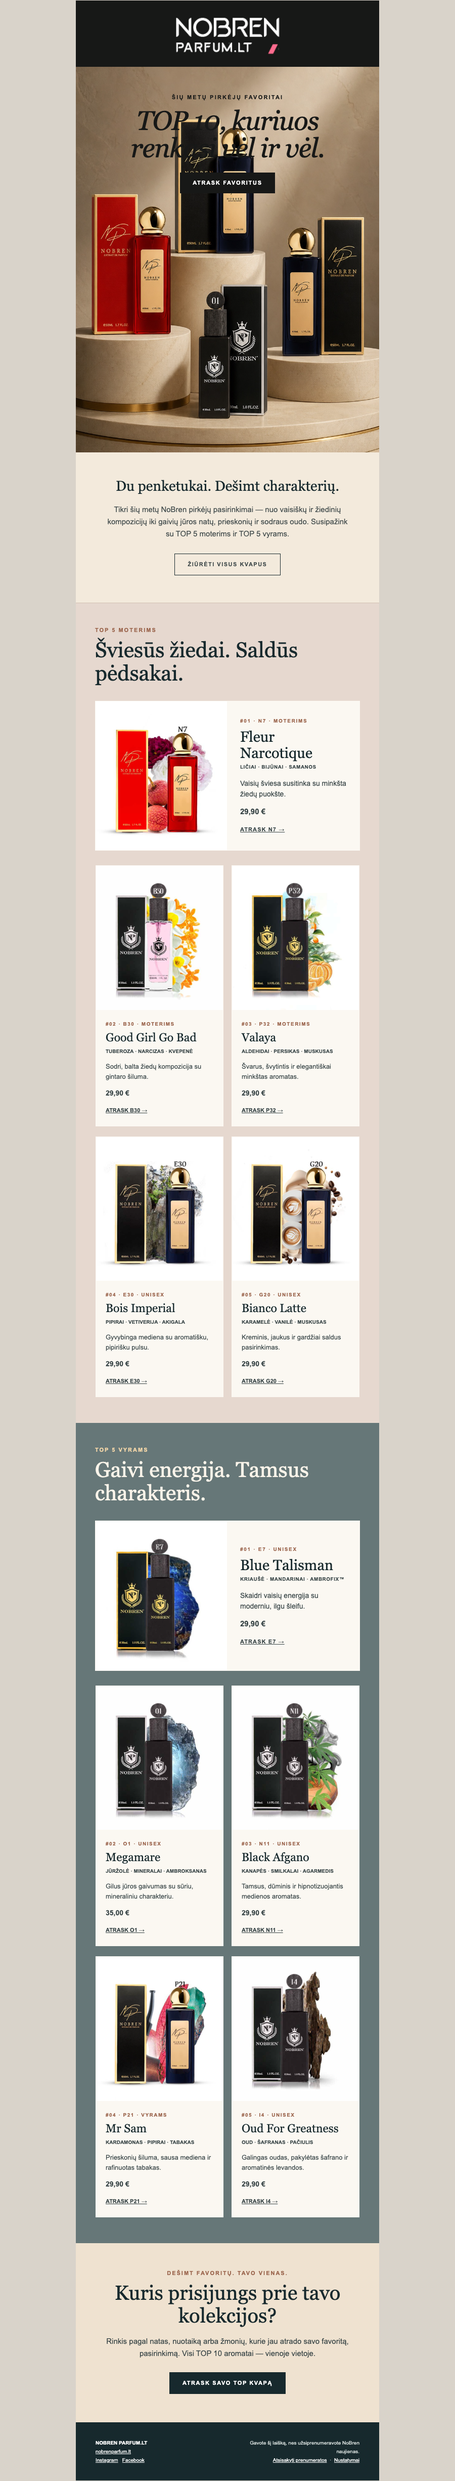
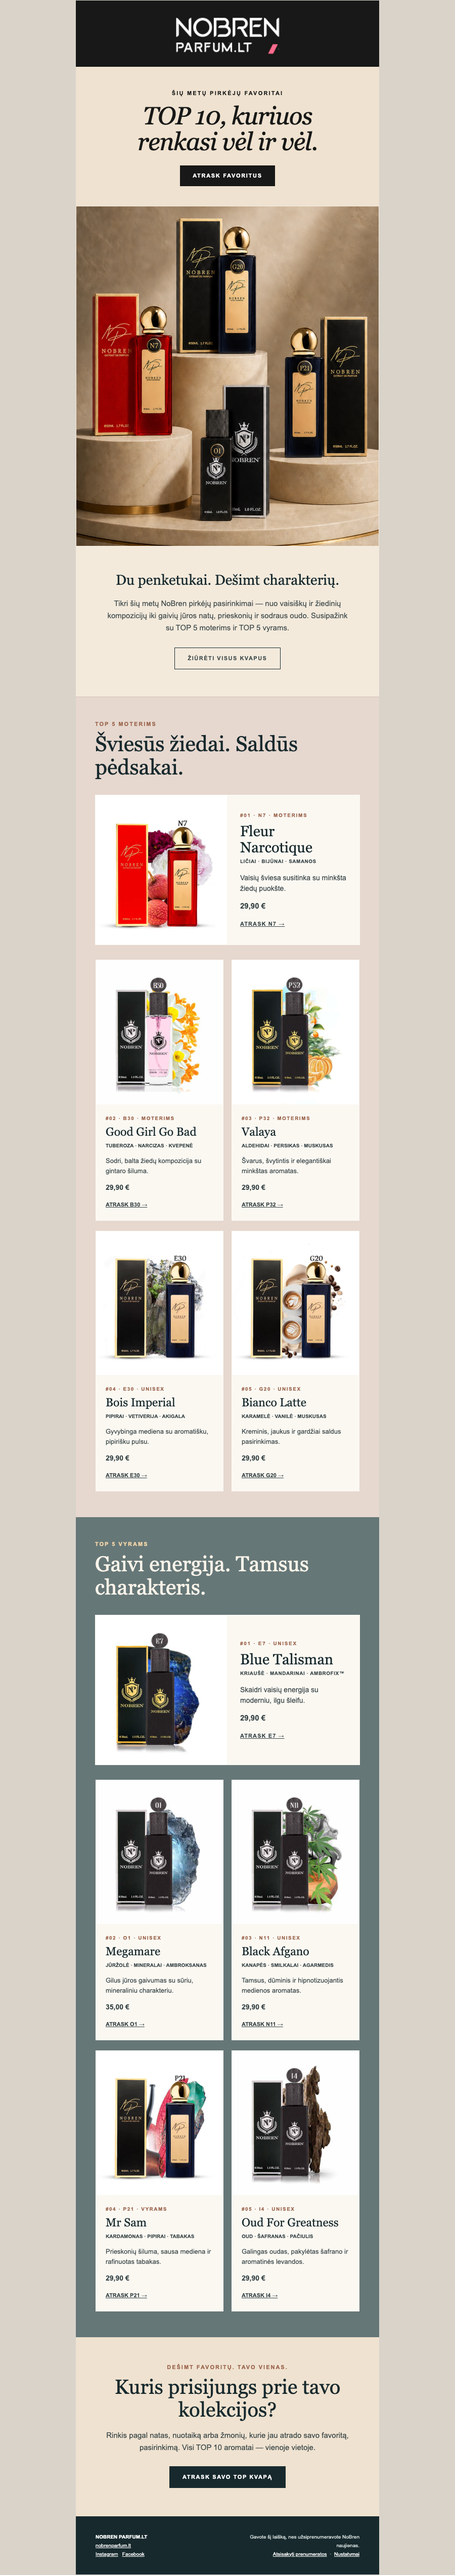
Improve TOP 10 hero readability and product codes

Changed region(s): [[0.1556, 0.0, 0.84, 0.9986], [0.2178, 0.9674, 0.3111, 0.9986]]

diff --git a/campaigns/2026-08-top10-kvapu/newsletter.html b/campaigns/2026-08-top10-kvapu/newsletter.html
@@ -12,7 +12,7 @@
     a{color:inherit}.preheader{display:none!important;max-height:0;overflow:hidden;opacity:0;color:transparent}
     @media only screen and (max-width:620px){
       .shell{width:100%!important}.px{padding-left:22px!important;padding-right:22px!important}
-      .hero{height:650px!important;background-position:center bottom!important}.hero-title{font-size:45px!important;line-height:46px!important}
+      .hero-title{font-size:40px!important;line-height:42px!important}
       .section-title{font-size:34px!important;line-height:38px!important}.stack{display:block!important;width:100%!important}
       .product-copy{padding:25px 23px 30px!important}.product-img{width:100%!important;height:auto!important}
       .pair-left,.pair-right{display:block!important;width:100%!important;padding:0 0 18px!important}.footer-col{display:block!important;width:100%!important;text-align:center!important;padding:7px 0!important}
@@ -27,15 +27,13 @@
         <a href="https://nobrenparfum.lt/" target="_blank"><img src="assets/brand/logo-white.png" width="212" alt="NoBren Parfum.lt" style="width:212px;max-width:100%;height:auto"></a>
       </td></tr>
 
-      <tr><td class="hero" height="760" valign="top" background="assets/hero/hero-top10.jpg" style="height:760px;background:#c8b294 url('assets/hero/hero-top10.jpg') center bottom/cover no-repeat">
-        <!--[if gte mso 9]><v:rect fill="true" stroke="false" style="width:600px;height:760px"><v:fill type="frame" src="assets/hero/hero-top10.jpg" color="#c8b294"/><v:textbox inset="0,0,0,0"><![endif]-->
-        <table role="presentation" width="100%"><tr><td align="center" style="padding:51px 30px 0;color:#171817">
-          <div style="font:700 11px/16px Arial,sans-serif;letter-spacing:2.2px">ŠIŲ METŲ PIRKĖJŲ FAVORITAI</div>
-          <div class="hero-title" style="padding:12px 0 21px;font:italic 53px/54px Georgia,serif;letter-spacing:-1.3px">TOP 10, kuriuos<br>renkasi vėl ir vėl.</div>
-          <table role="presentation"><tr><td bgcolor="#171817"><a href="#top10" style="display:block;padding:13px 24px;font:700 11px/13px Arial,sans-serif;letter-spacing:1.7px;color:#fff;text-decoration:none">ATRASK FAVORITUS</a></td></tr></table>
-        </td></tr></table>
-        <!--[if gte mso 9]></v:textbox></v:rect><![endif]-->
+      <tr><td class="px" align="center" bgcolor="#efe2d0" style="padding:44px 36px 39px;color:#171817">
+        <div style="font:700 11px/16px Arial,sans-serif;letter-spacing:2.2px">ŠIŲ METŲ PIRKĖJŲ FAVORITAI</div>
+        <div class="hero-title" style="padding:12px 0 21px;font:italic 49px/51px Georgia,serif;letter-spacing:-1.1px">TOP 10, kuriuos<br>renkasi vėl ir vėl.</div>
+        <table role="presentation"><tr><td bgcolor="#171817"><a href="https://nobrenparfum.lt/lt/populiariausi-kvepalai" target="_blank" style="display:block;padding:13px 24px;font:700 11px/13px Arial,sans-serif;letter-spacing:1.7px;color:#fff;text-decoration:none">ATRASK FAVORITUS</a></td></tr></table>
       </td></tr>
+
+      <tr><td><a href="https://nobrenparfum.lt/lt/populiariausi-kvepalai" target="_blank"><img src="assets/hero/hero-top10-v2.jpg" width="600" alt="NoBren TOP kvapai N7, G20, O1 ir P21" style="width:100%;max-width:600px;height:auto"></a></td></tr>
 
       <tr><td id="top10" class="px" align="center" style="padding:49px 56px 54px;color:#3e4849">
         <div style="font:28px/35px Georgia,serif;color:#17292d">Du penketukai. Dešimt charakterių.</div>
